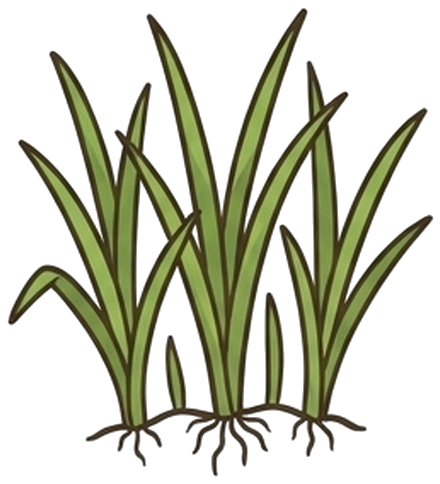
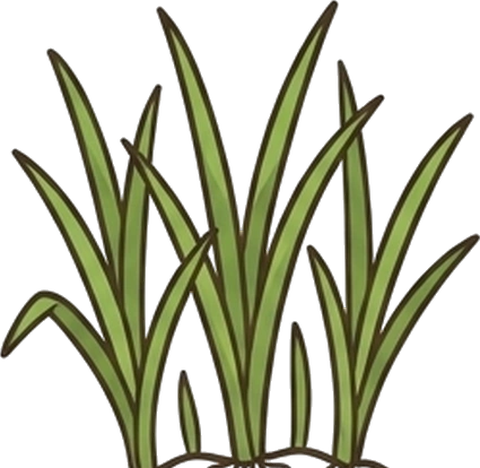
008 숨은 동물 찾기: 답을 눌러도 넘어가지 않던 것 고침, 벌용 소품 8개(크기 바꿈 0%), 갈대 밑동 뺌
- 도움으로 동물이 조금 나온 뒤 앞에 다른 동물 그림 상자(투명한 곳)가 겹치면 그 상자가 누름을 가로챘음 — 이제 지금 찾는 동물만 누름을 받고 나머지는 통과
- 판 O: 꽃송이 하나·잎 한 장 8개(화면 아래에서 올라옴) → 실제 크기에 맞는 소품이 없어 크기를 바꾼 경우 0%
- 윗부분이 잘려 그려진 갈대 밑동(reedbase)은 빼고, 볏모는 드러난 뿌리를 잘라 냄

Claude-Session: https://claude.ai/code/session_01Wjm5oe57tC24NCxfFkk98z

diff --git a/008/animal-home.html b/008/animal-home.html
@@ -1131,7 +1131,7 @@ async function playHide(p,lvG,targets,tok){
     placed.push(best.rect); if(isT) keep.push(best.win); used[c.nm]=(used[c.nm]||0)+1;
     const {x,y,g:pg}=best;
     const im=document.createElement('img'); im.className='placed'; im.src=pic(a); im.alt=a; im.draggable=false;
-    Object.assign(im.style,{width:z+'px',height:z+'px',left:x+'px',top:y+'px',pointerEvents:'auto',cursor:'inherit',zIndex:99+Math.round(pg.top+pg.sh),transition:'transform 1s ease-in-out, filter 1s'});   /* 앞(아래)에 있는 소품이 위에 오게: 소품은 아랫단 높이로, 동물은 제 소품 바로 뒤 */
+    Object.assign(im.style,{width:z+'px',height:z+'px',left:x+'px',top:y+'px',pointerEvents:'none',cursor:'inherit',zIndex:99+Math.round(pg.top+pg.sh),transition:'transform 1s ease-in-out, filter 1s'});   /* 앞(아래)에 있는 소품이 위에 오게: 소품은 아랫단 높이로, 동물은 제 소품 바로 뒤 */
     if(L.fade) im.style.filter='saturate(.82) brightness(.96) drop-shadow(0 2px 2px rgba(0,0,0,.18))';
     if(c.free) im.dataset.free=c.nm;   /* 실제 크기에 맞는 소품이 없어 크기를 무시함(검사 도구가 셈) */
     card.appendChild(im);
@@ -1176,7 +1176,10 @@ async function playHide(p,lvG,targets,tok){
   /* 찾으면: 소품 뒤에서 나옴 → 가운데로 와서 크게 보여 주며 문장 → 제 자리(나온 자리)로 돌아감 */
   const toCenter=t=>{ const x=parseFloat(t.im.style.left)+t.ox, y=parseFloat(t.im.style.top)+t.oy, k=Math.max(1,Math.min(2.2,H*.42/Math.max(t.dw,t.dh)));
     t.im.style.zIndex=5000; t.im.style.transition='transform .9s ease-in-out, filter 1s'; move(t,1,W/2-x,H*.52-y,k); };
+  /* 누를 수 있는 것은 지금 찾는 동물 하나뿐(2026-11-01) — 다른 동물 그림 상자(투명한 곳 포함)가 앞에 겹쳐 있으면 그 상자가 누름을 가로채
+     답을 눌러도 넘어가지 않던 일. 다른 동물·찾은 동물은 누름이 그대로 통과하고 '잘못 누름'으로 셈 */
   for(const a of shuffle(targets)){ const t=items.find(x=>x.a===a); if(!t) continue;
+    items.forEach(x=>x.im.style.pointerEvents=x===t?'auto':'none');
     /* 흔들기: 동물을 가린 소품이 아래를 축으로 살짝 두 번 흔들림(번쩍임 없이 0.7초) + 바스락 */
     const shake=()=>{ if(!t.pr.animate) return; const b=t.pr.style.transform||''; t.pr.style.transformOrigin='50% 95%'; rustle();
       t.pr.animate([0,-3,2.5,-2,1.2,0].map(r=>({transform:b+' rotate('+r+'deg)'})),{duration:700,easing:'ease-in-out'}); };
